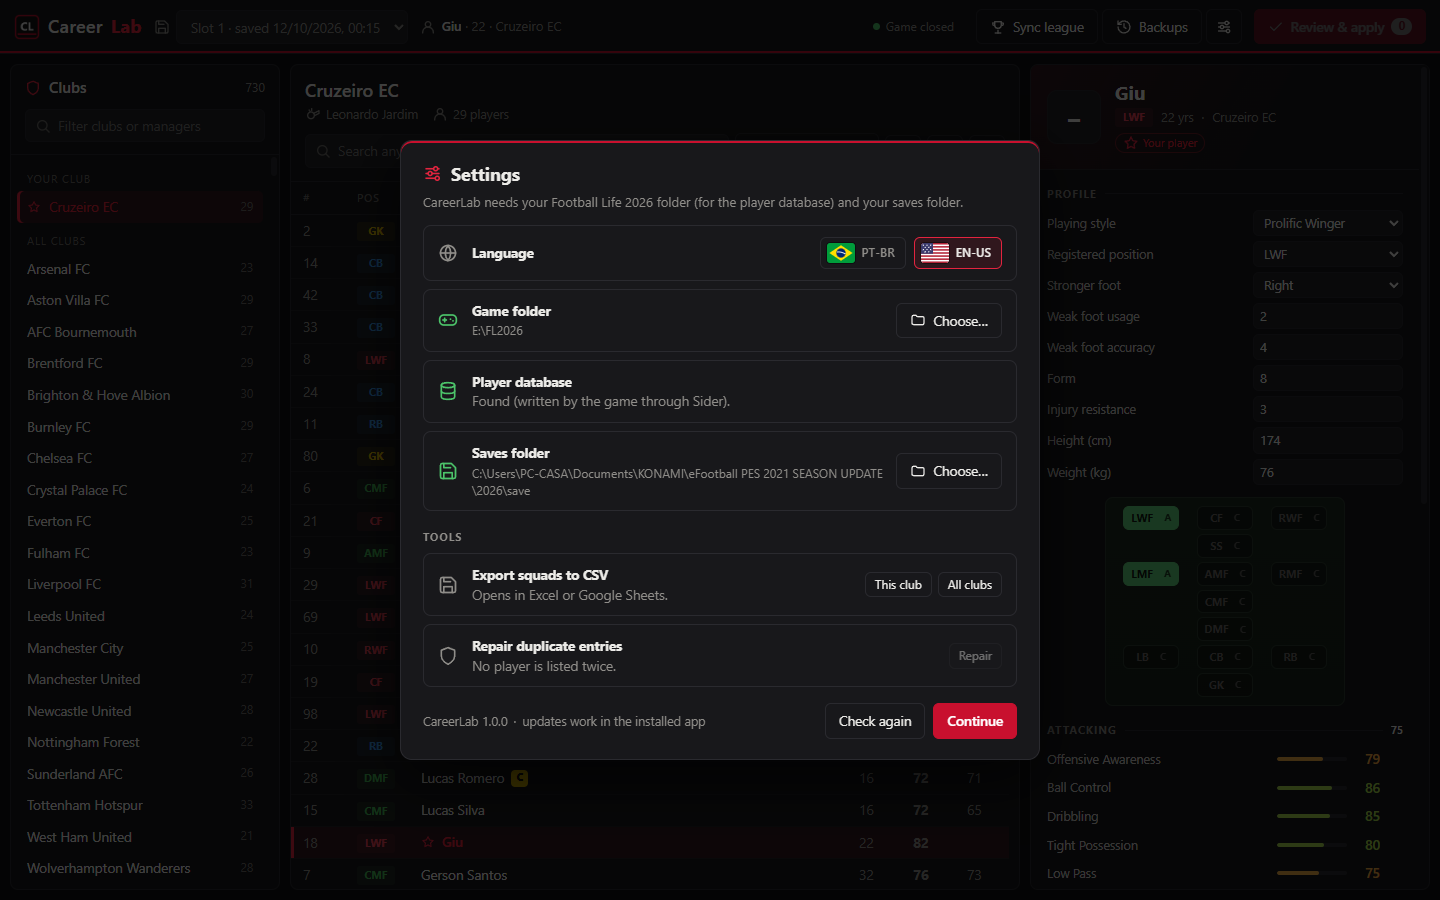
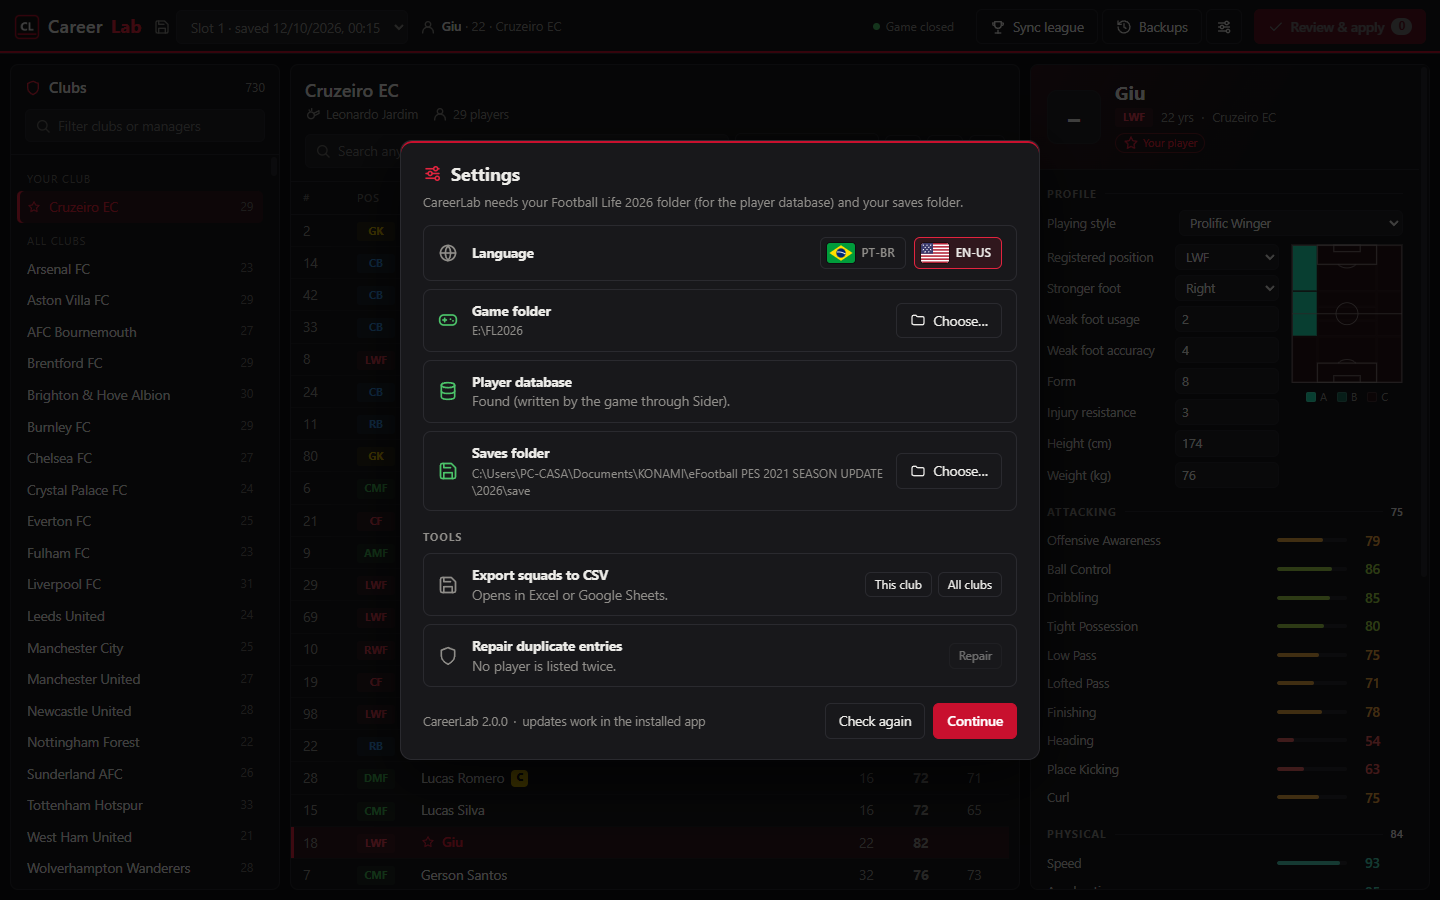
Position map drawn like FL26's player card
SVG pitch with the game's zones and markings (halfway line, centre circle,
boxes); A = solid teal, B = light teal, C = empty; names on hover, click cycles
C/B/A; sits beside the profile fields, style row full width. README screenshots
refreshed.

diff --git a/app/renderer/app.js b/app/renderer/app.js
@@ -378,8 +378,6 @@ const STYLES_CREATED = [null, "goal_poacher", "dummy_runner", "fox_in_the_box", 
   "orchestrator", "fullback_finisher"];
 const styleName = (key) => key ? STYLE_NAMES[key][LANG === "en" ? 0 : 1] : "–";
 const POS_CODES = ["GK", "CB", "LB", "RB", "DMF", "CMF", "LMF", "RMF", "AMF", "LWF", "RWF", "SS", "CF"];
-// mini pitch, attack at the top
-const PITCH_ROWS = [["LWF", "CF", "RWF"], ["SS"], ["LMF", "AMF", "RMF"], ["CMF"], ["DMF"], ["LB", "CB", "RB"], ["GK"]];
 const CREATED_POS = { GK: "gk_goalkeeper", CB: "cb_center_back", LB: "lb_left_back", RB: "rb_right_back",
   DMF: "dmf_defensive_midfielder", CMF: "cmf_center_midfielder", LMF: "lmf_left_midfielder", RMF: "rmf_right_midfielder",
   AMF: "amf_attacking_midfielder", LWF: "lwf_left_wing_forward", RWF: "rwf_right_wing_forward", SS: "ss_second_striker",
@@ -426,6 +424,7 @@ function profileSection(p) {
   const sec = el("div", { className: "section" });
   sec.append(el("div", { className: "section-title", textContent: t("prof.title") }));
   const grid = el("div", { className: "prof-grid" });
+  const top = el("div", { className: "prof-grid prof-top" });     // the style name needs the full width
   for (const fdef of profileFields(p)) {
     if (fdef.raw === undefined || fdef.raw === null) continue;
     const pending = stagedValue(p.pid, fdef.field);
@@ -444,35 +443,71 @@ function profileSection(p) {
         stageProfile(p, fdef, v);
       };
     }
-    grid.append(el("label", { textContent: fdef.label }), ctl);
+    (fdef.field === "playing_style" ? top : grid).append(el("label", { textContent: fdef.label, title: fdef.label }), ctl);
   }
   sec.append(grid);
 
-  // position ratings on a mini pitch: click cycles C → B → A
+  // position ratings drawn like FL26's player card: a pitch split into zones, A = solid teal,
+  // B = light teal, C = empty; click cycles C → B → A
   const level = (code) => {
     const field = p.kind === "created" ? CREATED_POS[code] : "pos_" + code.toLowerCase();
     const raw = p.kind === "created" ? p.fields[field] : p.positions?.[code.toLowerCase()];
     return { field, value: stagedValue(p.pid, field) ?? raw ?? 0, pending: stagedValue(p.pid, field) !== undefined };
   };
-  const pitch = el("div", { className: "mini-pitch", title: t("prof.pitchTitle") });
-  for (const rowCodes of PITCH_ROWS) {
-    const r = el("div", { className: "mp-row" });
-    for (const code of rowCodes) {
-      const lv = level(code);
-      const b = el("button", { className: `mp-pos lv${lv.value}` + (lv.pending ? " changed" : ""),
-        textContent: posLabel(code), title: `${posLabel(code)}: ${"CBA"[lv.value]}` });
-      b.append(el("i", { textContent: "CBA"[lv.value] }));
-      b.onclick = () => {
-        const next = (lv.value + 1) % 3;
-        stage({ op: p.kind === "created" ? "created" : "attr", pid: p.pid, field: lv.field, value: next,
-          label: t("lab.position", { name: p.name, pos: posLabel(code), from: "CBA"[lv.value], to: "CBA"[next] }) }, true);
-      };
-      r.append(b);
-    }
-    pitch.append(r);
-  }
-  sec.append(el("div", { className: "prof-pitch-wrap" }, pitch));
+  const pitch = positionPitch(level, (code, lv) => {
+    const next = (lv.value + 1) % 3;
+    stage({ op: p.kind === "created" ? "created" : "attr", pid: p.pid, field: lv.field, value: next,
+      label: t("lab.position", { name: p.name, pos: posLabel(code), from: "CBA"[lv.value], to: "CBA"[next] }) }, true);
+  });
+  sec.replaceChildren(sec.firstChild, top, el("div", { className: "prof-layout" }, grid,
+    el("div", { className: "prof-pitch" }, pitch,
+      el("div", { className: "pitch-legend" },
+        el("span", {}, el("i", { className: "sw a" }), "A"), el("span", {}, el("i", { className: "sw b" }), "B"),
+        el("span", {}, el("i", { className: "sw c" }), "C")))));
   return sec;
+}
+
+// Zones of FL26's position map, in a 100 x 125 pitch (attack at the top): [x, y, w, h].
+const PITCH_ZONES = {
+  LWF: [0, 0, 23, 41.9], LMF: [0, 41.9, 23, 41.2], LB: [0, 83.1, 23, 41.9],
+  RWF: [77, 0, 23, 41.9], RMF: [77, 41.9, 23, 41.2], RB: [77, 83.1, 23, 41.9],
+  CF: [23, 0, 54, 17.5], SS: [23, 17.5, 54, 24.4], AMF: [23, 41.9, 54, 14.3], CMF: [23, 56.2, 54, 12.6],
+  DMF: [23, 68.8, 54, 14.3], CB: [23, 83.1, 54, 24.4], GK: [23, 107.5, 54, 17.5],
+};
+
+function positionPitch(level, onClick) {
+  const svg = (tag, attrs = {}) => {
+    const e = document.createElementNS(SVGNS, tag);
+    for (const [k, v] of Object.entries(attrs)) e.setAttribute(k, v);
+    return e;
+  };
+  const root = svg("svg", { viewBox: "-1 -1 102 127", class: "pitch" });
+  root.append(svg("rect", { x: 0, y: 0, width: 100, height: 125, class: "p-bg" }));
+  for (const [code, [x, y, w, h]] of Object.entries(PITCH_ZONES)) {
+    const lv = level(code);
+    const g = svg("g", { class: `zone lv${lv.value}` + (lv.pending ? " changed" : "") });
+    g.append(svg("rect", { x: x + 0.6, y: y + 0.6, width: w - 1.2, height: h - 1.2, class: "z" }));
+    const label = svg("text", { x: x + w / 2, y: y + h / 2 + 2.6, class: "zl" });
+    label.textContent = posLabel(code);
+    g.append(label);
+    const tip = svg("title");
+    tip.textContent = `${posLabel(code)}: ${"CBA"[lv.value]}`;
+    g.append(tip);
+    g.addEventListener("click", () => onClick(code, lv));
+    root.append(g);
+  }
+  // markings on top, like the game: halfway line, centre circle, boxes, arcs
+  const lines = svg("g", { class: "p-lines" });
+  lines.append(
+    svg("rect", { x: 0, y: 0, width: 100, height: 125 }),
+    svg("line", { x1: 0, y1: 62.5, x2: 100, y2: 62.5 }),
+    svg("circle", { cx: 50, cy: 62.5, r: 10 }),
+    svg("rect", { x: 23, y: 0, width: 54, height: 17.5 }), svg("rect", { x: 38, y: 0, width: 24, height: 6 }),
+    svg("path", { d: "M 42 17.5 A 9 6 0 0 0 58 17.5" }),
+    svg("rect", { x: 23, y: 107.5, width: 54, height: 17.5 }), svg("rect", { x: 38, y: 119, width: 24, height: 6 }),
+    svg("path", { d: "M 42 107.5 A 9 6 0 0 1 58 107.5" }));
+  root.append(lines);
+  return root;
 }
 
 // The created character's fields use the Cheat Engine table's names.

diff --git a/app/renderer/styles.css b/app/renderer/styles.css
@@ -312,17 +312,6 @@ ul:focus, ol:focus, .sync-body:focus, .table-wrap:focus, .detail:focus { outline
 .prof-grid label { color: #cfccc8; font-size: 12.5px; }
 .prof-grid select, .prof-grid input { width: 100%; padding: 3px 6px; font-size: 12.5px; }
 .prof-grid .changed { border-color: var(--red-glow); background: var(--red-soft); }
-.prof-pitch-wrap { display: flex; justify-content: center; margin-top: 12px; }
-.mini-pitch { display: flex; flex-direction: column; gap: 4px; padding: 8px 10px; border-radius: 8px; width: 240px;
-  background: linear-gradient(#1c2a1f, #17221a); border: 1px solid #2c3d30; }
-.mp-row { display: flex; justify-content: space-around; gap: 4px; }
-.mp-pos { position: relative; min-width: 56px; justify-content: center; padding: 3px 6px; font-size: 11px; font-weight: 700;
-  background: #0e1410aa; border: 1px solid #2c3d30; color: var(--dim); }
-.mp-pos i { font-style: normal; font-size: 9.5px; margin-left: 4px; opacity: .8; }
-.mp-pos.lv1 { color: #cfe6c2; border-color: #4f7a45; }
-.mp-pos.lv2 { color: #0f1a10; background: #5fd17a; border-color: #5fd17a; }
-.mp-pos.changed { box-shadow: 0 0 0 2px var(--red-glow); }
-.mp-pos:hover { filter: brightness(1.15); }
 
 /* settings tools */
 .tools-title { margin: 18px 0 4px; font-size: 11px; text-transform: uppercase; letter-spacing: 1px; color: var(--muted); }
@@ -349,3 +338,28 @@ ul:focus, ol:focus, .sync-body:focus, .table-wrap:focus, .detail:focus { outline
   #btn-free span, #btn-tactics span, #btn-manager span { display: none; }
   #btn-free, #btn-tactics, #btn-manager { padding: 7px 9px; }
 }
+
+/* position map, drawn like FL26's player card */
+.prof-layout { display: grid; grid-template-columns: minmax(0, 1fr) 112px; gap: 12px; align-items: start; }
+.prof-layout .prof-grid { grid-template-columns: minmax(0, 1fr) 104px; gap: 5px 8px; }
+.prof-layout .prof-grid label { white-space: nowrap; overflow: hidden; text-overflow: ellipsis; }
+.prof-pitch { display: flex; flex-direction: column; align-items: center; gap: 6px; }
+.pitch { width: 112px; height: auto; display: block; }
+.pitch .p-bg { fill: #2a1316; }
+.pitch .zone { cursor: pointer; }
+.pitch .zone .z { fill: transparent; stroke: #ffffff10; stroke-width: .6; transition: fill .12s; }
+.pitch .zone.lv1 .z { fill: #1de9b666; }
+.pitch .zone.lv2 .z { fill: #1de9b6; }
+.pitch .zone:hover .z { stroke: #ffffff60; stroke-width: 1; }
+.pitch .zone.lv0:hover .z { fill: #ffffff10; }
+.pitch .zone.changed .z { stroke: var(--red-glow); stroke-width: 1.4; }
+.pitch .zl { font-size: 7px; font-weight: 700; text-anchor: middle; fill: #ffffffcc; opacity: 0; pointer-events: none;
+  transition: opacity .12s; }
+.pitch .zone.lv2 .zl { fill: #0d2a22; }
+.pitch .zone:hover .zl, .pitch:hover .zone.lv2 .zl, .pitch:hover .zone.lv1 .zl { opacity: 1; }
+.pitch .p-lines * { fill: none; stroke: #9b8f8f; stroke-width: .7; pointer-events: none; }
+.pitch-legend { display: flex; gap: 10px; font-size: 11px; color: var(--muted); }
+.pitch-legend span { display: inline-flex; align-items: center; gap: 4px; }
+.pitch-legend .sw { width: 10px; height: 10px; border-radius: 2px; border: 1px solid #ffffff22; }
+.pitch-legend .sw.a { background: #1de9b6; } .pitch-legend .sw.b { background: #1de9b666; } .pitch-legend .sw.c { background: #2a1316; }
+.prof-top { grid-template-columns: minmax(0, 1fr) 224px; margin-bottom: 8px; }
